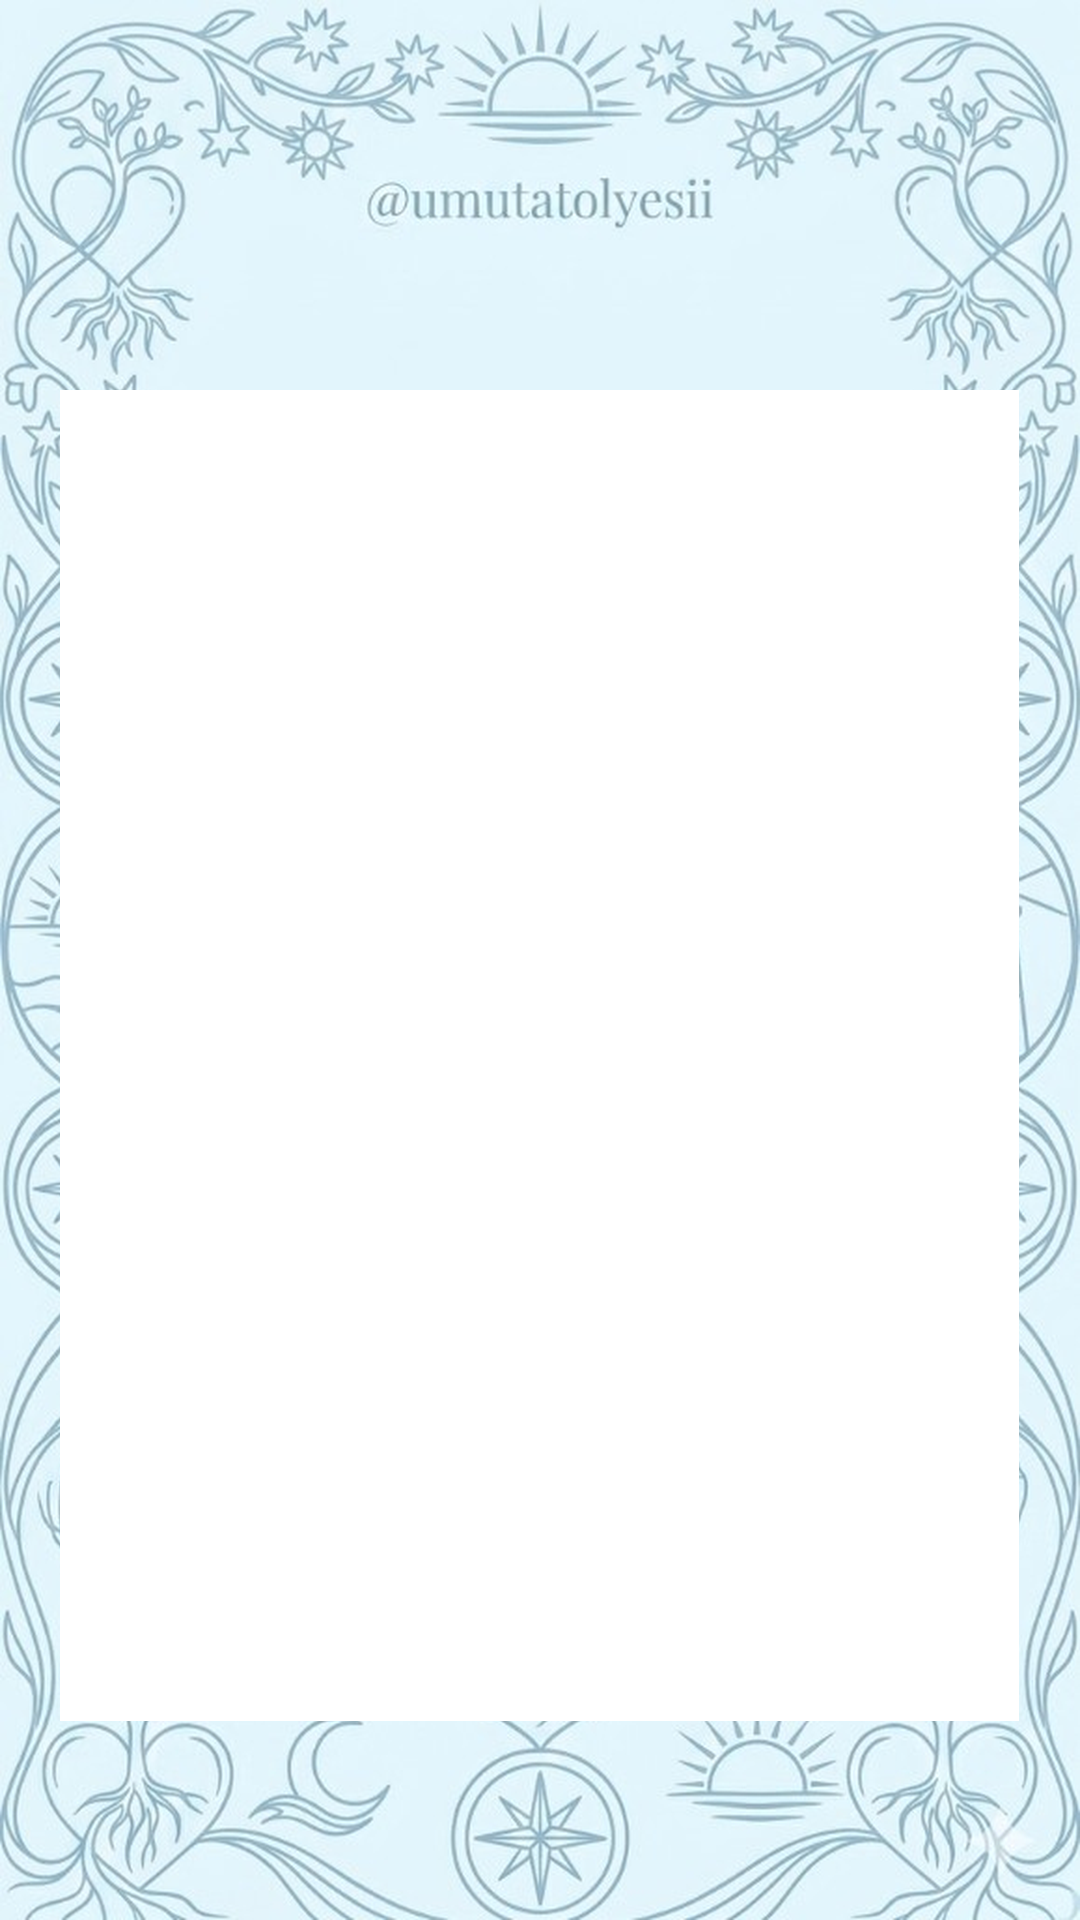
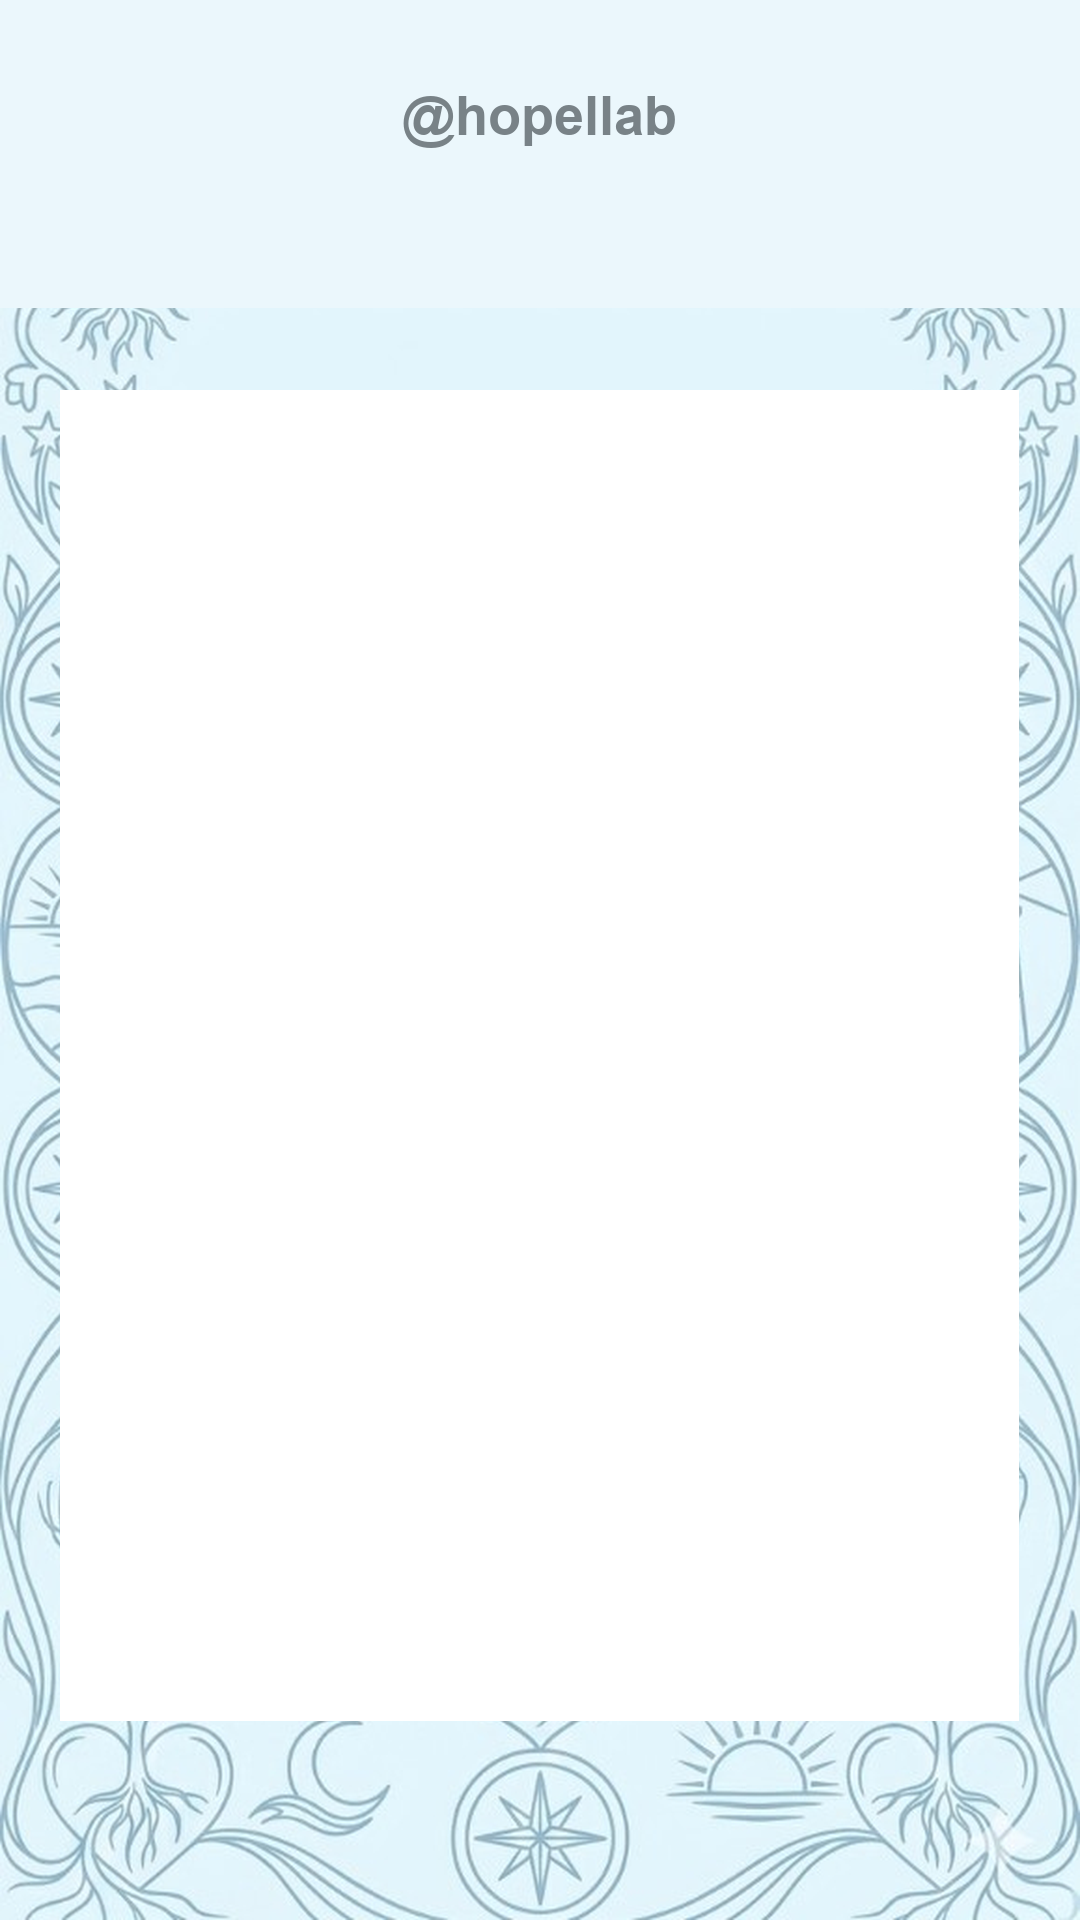
wşomeowpgqopewögoeögpowöegpowöegoöwpoeögpwoeögpowöegoq

Changed region(s): [[0.0, 0.0, 1.0, 0.1875]]

diff --git a/index.html b/index.html
@@ -245,7 +245,7 @@
     <div class="selector-row">
       <button class="sel-btn active" id="cat-animal" onclick="setCat('animal')">🐾 Hayvan & Bebek</button>
       <button class="sel-btn" id="cat-comedy" onclick="setCat('comedy')">😂 Komedi</button>
-      <button class="sel-btn" id="cat-hope" onclick="setCat('hope')">🕊 Umut Atölyesi</button>
+      <button class="sel-btn" id="cat-hope" onclick="setCat('hope')">🕊 Hope Lab</button>
     </div>
   </div>
 
@@ -1183,7 +1183,7 @@ const BLOCKED_KEYWORDS = [
   "bts","blackpink","twice","exo","nct","stray kids","aespa","newjeans"
 ];
 
-// Umut Atölyesi: kaza/yaralanma vb. içerikleri tamamen kapat
+// Hope Lab: kaza/yaralanma vb. içerikleri tamamen kapat
 const HOPE_BLOCKED_KEYWORDS = [
   // injury/accident
   "accident","car crash","crash","injury","injured","wounded","blood","bleeding","gore","graphic",
@@ -1529,7 +1529,7 @@ function buildCard(v, i) {
   const safeLink = watchLink.replace(/'/g, "\\'");
   const safeDlLink = dlLink.replace(/'/g, "\\'");
   const tagClass = cat === "animal" ? "tag-animal" : (cat === "hope" ? "tag-hope" : "tag-comedy");
-  const tagText = cat === "animal" ? "🐾 Hayvan & Bebek" : (cat === "hope" ? "🕊 Umut Atölyesi" : "😂 Komedi");
+  const tagText = cat === "animal" ? "🐾 Hayvan & Bebek" : (cat === "hope" ? "🕊 Hope Lab" : "😂 Komedi");
   const rankClass = i === 0 ? "top" : "";
 
   return `<div class="vcard">

diff --git a/public/index.html b/public/index.html
@@ -245,7 +245,7 @@
     <div class="selector-row">
       <button class="sel-btn active" id="cat-animal" onclick="setCat('animal')">🐾 Hayvan & Bebek</button>
       <button class="sel-btn" id="cat-comedy" onclick="setCat('comedy')">😂 Komedi</button>
-      <button class="sel-btn" id="cat-hope" onclick="setCat('hope')">🕊 Umut Atölyesi</button>
+      <button class="sel-btn" id="cat-hope" onclick="setCat('hope')">🕊 Hope Lab</button>
     </div>
   </div>
 
@@ -1183,7 +1183,7 @@ const BLOCKED_KEYWORDS = [
   "bts","blackpink","twice","exo","nct","stray kids","aespa","newjeans"
 ];
 
-// Umut Atölyesi: kaza/yaralanma vb. içerikleri tamamen kapat
+// Hope Lab: kaza/yaralanma vb. içerikleri tamamen kapat
 const HOPE_BLOCKED_KEYWORDS = [
   // injury/accident
   "accident","car crash","crash","injury","injured","wounded","blood","bleeding","gore","graphic",
@@ -1529,7 +1529,7 @@ function buildCard(v, i) {
   const safeLink = watchLink.replace(/'/g, "\\'");
   const safeDlLink = dlLink.replace(/'/g, "\\'");
   const tagClass = cat === "animal" ? "tag-animal" : (cat === "hope" ? "tag-hope" : "tag-comedy");
-  const tagText = cat === "animal" ? "🐾 Hayvan & Bebek" : (cat === "hope" ? "🕊 Umut Atölyesi" : "😂 Komedi");
+  const tagText = cat === "animal" ? "🐾 Hayvan & Bebek" : (cat === "hope" ? "🕊 Hope Lab" : "😂 Komedi");
   const rankClass = i === 0 ? "top" : "";
 
   return `<div class="vcard">

diff --git a/local-downloader.js b/local-downloader.js
@@ -892,9 +892,9 @@ function fetchGeminiHookEnglish(apiKey, title, brand, emojiPool) {
 
 function getBrandFolderName(brand) {
   const n = normBrand(brand);
-  if (n === 'kaos') return 'Kaos Atölyesi';
-  if (n === 'umut') return 'Umut Atölyesi';
-  return 'Terapi Atölyesi';
+  if (n === 'kaos') return 'Chaos Lab';
+  if (n === 'umut') return 'Hope Lab';
+  return 'Therapy Lab';
 }
 
 function getBrandDir(brand) {

diff --git a/public/audio/crush/terapi/README.md b/public/audio/crush/terapi/README.md
@@ -1,4 +1,4 @@
-# Terapi Atölyesi — BGM
+# Therapy Lab — BGM
 
 Bu klasöre **en az 15** adet lisanslı kısa fon müziği ekleyin (ör. `track01.mp3` … `track15.m4a`).
 

diff --git a/public/audio/crush/kaos/README.md b/public/audio/crush/kaos/README.md
@@ -1,4 +1,4 @@
-# Kaos Atölyesi — BGM
+# Chaos Lab — BGM
 
 Bu klasöre **en az 15** adet lisanslı kısa fon müziği ekleyin (ör. `track01.mp3` … `track15.m4a`).
 

diff --git a/public/audio/crush/umut/README.md b/public/audio/crush/umut/README.md
@@ -1,4 +1,4 @@
-# Umut Atölyesi — BGM
+# Hope Lab — BGM
 
 Bu klasöre **en az 15** adet lisanslı kısa fon müziği ekleyin (ör. `track01.mp3` … `track15.m4a`).
 
